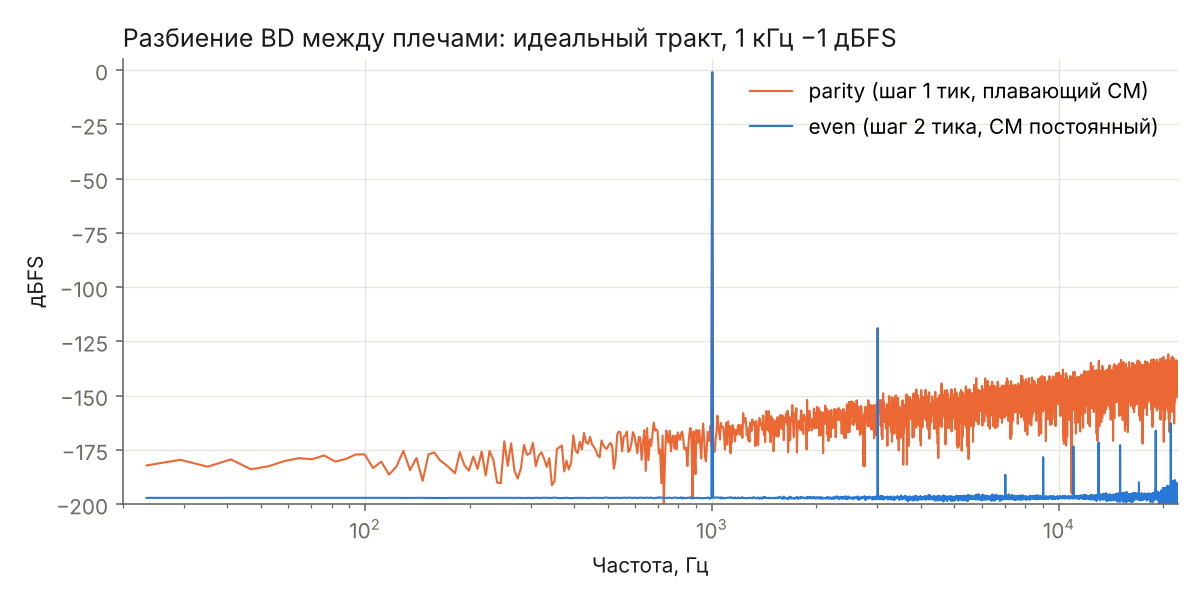
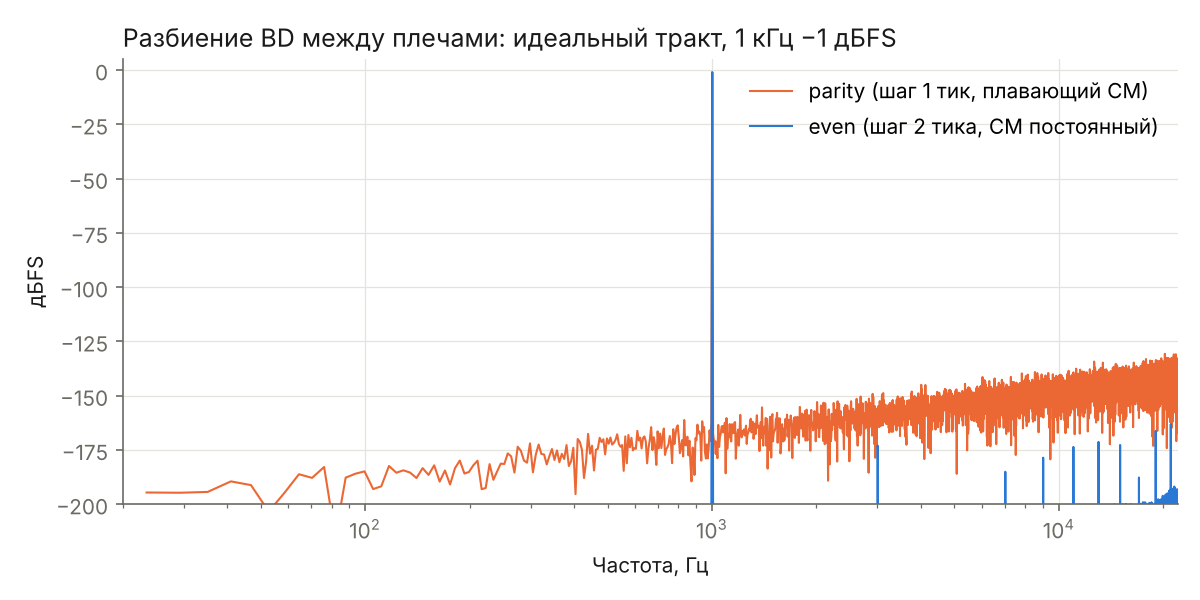
UPWM pre-correction m = x - D2(x^3)/24, twin-tone IMD analysis
Fixed-centre BD pulses add D2(w^3)/24 to the baseband sequence; the
inverse correction before the shaper brings 6.6 kHz THD from -85 to
-147 dB and 18+19 kHz IMD from -94 to -150 dB. Correction is now the
default; README and results updated.

Claude-Session: https://claude.ai/code/session_01LYe5pTQE5ZKpSB8AvEiNgy

Changed region(s): [[0.1233, 0.63, 0.9867, 0.84], [0.8633, 0.6, 0.9558, 0.63], [0.9558, 0.57, 0.9867, 0.6]]

diff --git a/model/classd_model.py b/model/classd_model.py
@@ -35,6 +35,7 @@ class Params:
 
     # test signal
     f_sig: float = 1000.0             # snapped to an FFT bin (coherent)
+    f_sig2: float = 0.0               # >0: twin tone (each at level - 6 dB)
     level_dbfs: float = -1.0          # relative to full modulation
     n_fft: int = 2 ** 15              # FFT length at fs_in
     pad: int = 4096                   # settling samples at fs_in, both ends
@@ -50,6 +51,10 @@ class Params:
     #             The pulse centre then moves by 1/2 tick with the parity of
     #             the quantiser noise -> signal-proportional noise floor.
     bd_split: str = "even"
+    # UPWM linearisation, applied before the shaper:
+    #  "none"  - plain uniform sampling
+    #  "cubic" - m = x - D2(x^3)/24  (see pwm_linearise)
+    pwm_corr: str = "cubic"
 
     # power stage
     vbus: float = 50.0
@@ -347,24 +352,30 @@ def decimate_to_fs(y, p, grid_ratio):
 # ----------------------------------------------------------------------------
 
 def analyse(y, p, kf):
+    """kf: fundamental bin, or (k1, k2) for a twin tone. For a twin tone
+    'thd' holds the in-band IMD (2f1-f2, 2f2-f1, f2-f1, 3rd/2nd order
+    products) and 'thdn' everything except the two tones, both relative
+    to the total rms of the tones."""
     n = p.n_fft
     Y = np.fft.rfft(y) / n * 2
     f = np.arange(len(Y)) * p.fs_in / n
     mag = np.abs(Y)
-    fund = mag[kf]
     band = (f >= 20) & (f <= p.f_band)
-    band[kf] = False
+    tones = list(kf) if isinstance(kf, tuple) else [kf]
+    sig_rms = np.sqrt(np.sum(mag[tones] ** 2) / 2)
+    band[tones] = False
     noise_dist = np.sqrt(np.sum(mag[band] ** 2) / 2)
-    harm = []
-    for h in range(2, 10):
-        kh = h * kf
-        if kh < len(mag) and f[kh] <= p.f_band:
-            harm.append(mag[kh])
-    harm = np.array(harm)
-    thd = np.sqrt(np.sum(harm ** 2)) / fund if len(harm) else 0.0
-    thdn = noise_dist / (fund / np.sqrt(2))
-    return dict(f=f, mag=mag, fund=fund, thd=thd, thdn=thdn,
-                harm_db=20 * np.log10(harm / fund + 1e-30))
+    if len(tones) == 1:
+        k1 = tones[0]
+        prods = [h * k1 for h in range(2, 10)]
+    else:
+        k1, k2 = tones
+        prods = [2 * k1 - k2, 2 * k2 - k1, k2 - k1]
+    harm = np.array([mag[k] for k in prods if 0 < k < len(mag) and f[k] <= p.f_band])
+    thd = np.sqrt(np.sum(harm ** 2) / 2) / sig_rms if len(harm) else 0.0
+    return dict(f=f, mag=mag, fund=mag[tones[0]], thd=thd,
+                thdn=noise_dist / sig_rms,
+                harm_db=20 * np.log10(harm / (sig_rms * np.sqrt(2)) + 1e-30))
 
 
 def run(p: Params, seed=1):
@@ -373,7 +384,13 @@ def run(p: Params, seed=1):
     kf = int(round(p.f_sig * p.n_fft / p.fs_in))
     amp = 10 ** (p.level_dbfs / 20)
     n = np.arange(n_in)
-    x = amp * np.sin(2 * np.pi * kf * n / p.n_fft)
+    if p.f_sig2 > 0:
+        kf2 = int(round(p.f_sig2 * p.n_fft / p.fs_in))
+        x = amp / 2 * (np.sin(2 * np.pi * kf * n / p.n_fft)
+                       + np.sin(2 * np.pi * kf2 * n / p.n_fft))
+        kf = (kf, kf2)
+    else:
+        x = amp * np.sin(2 * np.pi * kf * n / p.n_fft)
 
     xi = interpolate(x, p)[: n_in * p.up]
     t_upd = np.arange(len(xi)) / p.f_upd
@@ -384,6 +401,7 @@ def run(p: Params, seed=1):
     m = xi
     if p.feedforward:
         m = m * p.vbus / vbus_fn(t_upd + 0.5 / p.f_upd)
+    m = pwm_linearise(m, p.pwm_corr)
     m_units = m * p.nh
 
     if p.quantize:
@@ -428,6 +446,27 @@ def run(p: Params, seed=1):
     res["params"] = p
     res["switch_rate"] = (len(ta) + len(tb)) / (n_in / p.fs_in)
     return res
+
+
+def pwm_linearise(x, mode):
+    """Pre-correction of the uniformly sampled BD PWM.
+
+    With the constant-CM split every half period k carries one differential
+    pulse of width w_k (in half periods, w = m) centred at a FIXED position.
+    Its low-frequency spectrum is
+        2/w * sin(w*w/2) * e^{-j w c} = (w - w^3 w^2/24 + ...) e^{-j w c},
+    i.e. the pulse train equals the sample sequence w_k plus (1/24) d^2/dt^2
+    of w_k^3 (time unit = half period). So the baseband sees
+        w_k + D2(w^3)_k / 24,   D2 = second difference,
+    and the inverse is m = x - D2(x^3)/24 (error ~ w^5 term, below -140 dB).
+    FPGA cost: a cube, a second difference, a shift-add (1/24)."""
+    if mode == "none":
+        return x
+    if mode == "cubic":
+        c = x ** 3
+        d2 = np.concatenate((c[:1], c[:-1])) - 2 * c + np.concatenate((c[1:], c[-1:]))
+        return x - d2 / 24
+    raise ValueError(mode)
 
 
 def _ideal_edges(n_high, p):

diff --git a/model/run_openloop.py b/model/run_openloop.py
@@ -29,9 +29,12 @@ plt.rcParams.update({
 
 SCENARIOS = [
     # (group, label, kwargs)
-    ("Модулятор", "Идеальный, 1 кГц", {}),
-    ("Модулятор", "Идеальный, 6,6 кГц", dict(f_sig=6600)),
-    ("Модулятор", "Без квантования (чистый UPWM), 1 кГц", dict(quantize=False)),
+    ("Модулятор", "UPWM без коррекции, 1 кГц", dict(pwm_corr="none")),
+    ("Модулятор", "UPWM без коррекции, 6,6 кГц", dict(pwm_corr="none", f_sig=6600)),
+    ("Модулятор", "UPWM без коррекции, 18+19 кГц (IMD)", dict(pwm_corr="none", f_sig=18000, f_sig2=19000)),
+    ("Модулятор", "С коррекцией, 1 кГц", {}),
+    ("Модулятор", "С коррекцией, 6,6 кГц", dict(f_sig=6600)),
+    ("Модулятор", "С коррекцией, 18+19 кГц (IMD)", dict(f_sig=18000, f_sig2=19000)),
     ("Модулятор", "BD-разбиение parity (шаг 1 тик)", dict(bd_split="parity")),
     ("Джиттер", "Джиттер 10 пс RMS", dict(jitter_rms=10e-12)),
     ("Джиттер", "Джиттер 50 пс RMS", dict(jitter_rms=50e-12)),
@@ -108,15 +111,19 @@ def main():
                  f"{p.c_gnd*1e9:.0f} нФ, C дифф. {p.c_diff*1e9:.0f} нФ, Zobel "
                  f"{p.zobel_r} Ом + {p.zobel_c*1e9:.0f} нФ, Coss {p.coss*1e12:.0f} пФ. "
                  f"Сигнал −1 дБFS, 1 кГц, если не указано иное. Полоса 20 Гц–20 кГц.\n\n")
+        fh.write("Для двухтонового сигнала колонка THD — это IMD (2f1−f2, 2f2−f1, f2−f1).\n\n")
         fh.write("| Группа | Сценарий | THD+N, дБ | THD, дБ | H3, дБ |\n")
         fh.write("|---|---|---:|---:|---:|\n")
         for g, lab, tn, t, h3 in rows:
             fh.write(f"| {g} | {lab} | {tn:.1f} | {t:.1f} | {h3} |\n")
 
-    plot_overlay([res["BD-разбиение parity (шаг 1 тик)"], res["Идеальный, 1 кГц"]],
+    plot_overlay([res["BD-разбиение parity (шаг 1 тик)"], res["С коррекцией, 1 кГц"]],
                  ["parity (шаг 1 тик, плавающий CM)", "even (шаг 2 тика, CM постоянный)"],
                  [S2, S1], "bd_split.png",
                  "Разбиение BD между плечами: идеальный тракт, 1 кГц −1 дБFS")
+    plot_overlay([res["UPWM без коррекции, 6,6 кГц"], res["С коррекцией, 6,6 кГц"]],
+                 ["без коррекции", "коррекция m = x − D²(x³)/24"], [S2, S1],
+                 "pwm_corr.png", "Коррекция нелинейности UPWM, 6,6 кГц −1 дБFS")
     plot_small_multiples([res["2 нс, 8 Ом"], res["2 нс, 4 Ом"], res["2 нс, без нагрузки"]],
                          ["8 Ом", "4 Ом", "без нагрузки"], "deadtime_loads.png",
                          "Dead time 2 нс (ISG3208, Coss(TR) 805 пФ), open-loop, 1 кГц −1 дБFS")

diff --git a/results/summary.md b/results/summary.md
@@ -2,21 +2,26 @@
 
 Несущая 768 кГц (BD), обновление 1.536 МГц, шаг фронта 1.272 нс (512 тиков на полупериод), NTF 5-го порядка, OBG 3.0. Шина 50 В, L 4.7 мкГн, C на землю 470 нФ, C дифф. 470 нФ, Zobel 4.7 Ом + 470 нФ, Coss 805 пФ. Сигнал −1 дБFS, 1 кГц, если не указано иное. Полоса 20 Гц–20 кГц.
 
+Для двухтонового сигнала колонка THD — это IMD (2f1−f2, 2f2−f1, f2−f1).
+
 | Группа | Сценарий | THD+N, дБ | THD, дБ | H3, дБ |
 |---|---|---:|---:|---:|
-| Модулятор | Идеальный, 1 кГц | -118.0 | -118.0 | -118.0 |
-| Модулятор | Идеальный, 6,6 кГц | -85.3 | -85.3 | -85.3 |
-| Модулятор | Без квантования (чистый UPWM), 1 кГц | -118.0 | -118.0 | -118.0 |
-| Модулятор | BD-разбиение parity (шаг 1 тик) | -107.8 | -117.9 | -117.9 |
-| Джиттер | Джиттер 10 пс RMS | -104.9 | -117.8 | -118.0 |
-| Джиттер | Джиттер 50 пс RMS | -91.1 | -114.4 | -117.8 |
-| Джиттер | Джиттер 100 пс RMS | -85.1 | -110.2 | -117.3 |
-| Dead time | 1 нс, 8 Ом | -100.8 | -100.8 | -101.7 |
-| Dead time | 2 нс, 8 Ом | -88.0 | -88.0 | -88.7 |
-| Dead time | 5 нс, 8 Ом | -71.9 | -71.9 | -72.6 |
-| Dead time | 2 нс, 4 Ом | -86.7 | -86.7 | -88.0 |
-| Dead time | 5 нс, 4 Ом | -70.5 | -70.6 | -71.9 |
-| Dead time | 2 нс, без нагрузки | -117.9 | -117.9 | -117.9 |
-| Dead time | 2 нс, 8 Ом, −20 дБFS | -142.9 | -153.3 | -154.5 |
-| Питание | Пульсации шины 1 % / 100 Гц | -43.0 | -117.2 | -117.8 |
-| Питание | То же + feedforward | -118.0 | -118.0 | -118.0 |
+| Модулятор | UPWM без коррекции, 1 кГц | -118.0 | -118.0 | -118.0 |
+| Модулятор | UPWM без коррекции, 6,6 кГц | -85.3 | -85.3 | -85.3 |
+| Модулятор | UPWM без коррекции, 18+19 кГц (IMD) | -93.5 | -93.5 | -194.8 |
+| Модулятор | С коррекцией, 1 кГц | -161.2 | -170.8 | -172.1 |
+| Модулятор | С коррекцией, 6,6 кГц | -146.9 | -146.9 | -146.9 |
+| Модулятор | С коррекцией, 18+19 кГц (IMD) | -149.9 | -150.3 | -198.3 |
+| Модулятор | BD-разбиение parity (шаг 1 тик) | -108.5 | -139.5 | -156.7 |
+| Джиттер | Джиттер 10 пс RMS | -105.1 | -131.0 | -148.8 |
+| Джиттер | Джиттер 50 пс RMS | -91.1 | -117.1 | -135.0 |
+| Джиттер | Джиттер 100 пс RMS | -85.1 | -111.0 | -129.0 |
+| Dead time | 1 нс, 8 Ом | -99.8 | -99.8 | -100.5 |
+| Dead time | 2 нс, 8 Ом | -87.8 | -87.8 | -88.5 |
+| Dead time | 5 нс, 8 Ом | -71.8 | -71.8 | -72.5 |
+| Dead time | 2 нс, 4 Ом | -86.5 | -86.5 | -87.8 |
+| Dead time | 5 нс, 4 Ом | -70.5 | -70.6 | -71.8 |
+| Dead time | 2 нс, без нагрузки | -138.9 | -138.9 | -138.9 |
+| Dead time | 2 нс, 8 Ом, −20 дБFS | -155.0 | -159.7 | -166.9 |
+| Питание | Пульсации шины 1 % / 100 Гц | -43.0 | -125.6 | -135.8 |
+| Питание | То же + feedforward | -155.9 | -170.1 | -171.1 |
